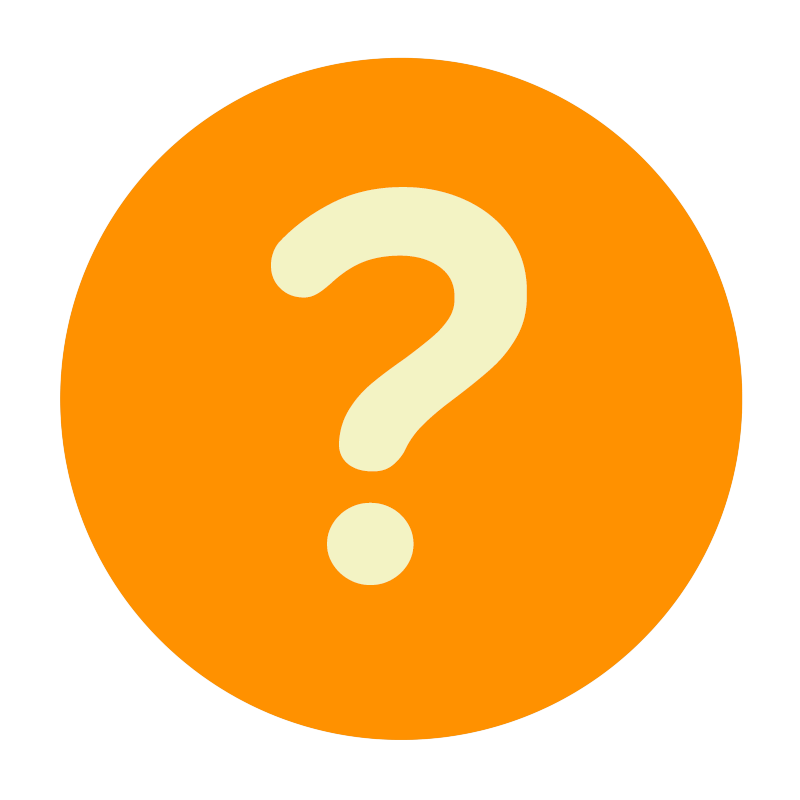
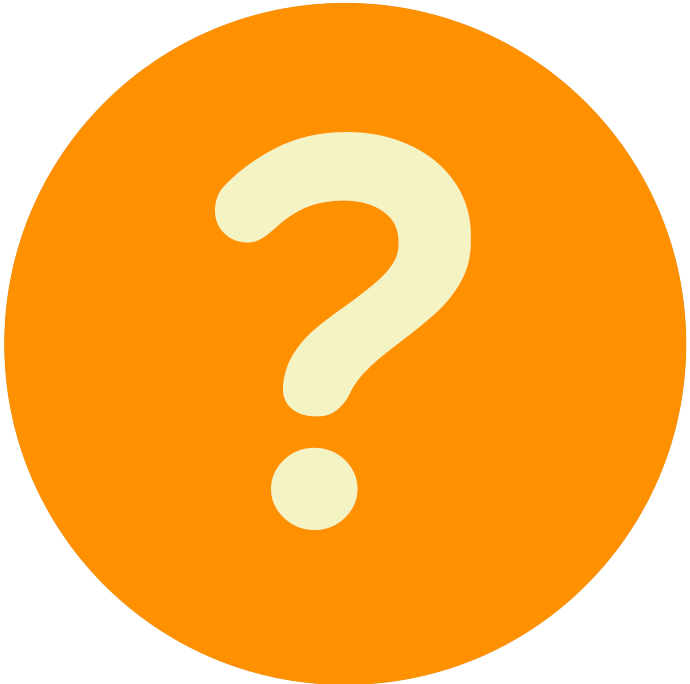
Redimensionado botões e sombra

diff --git a/css/locais.css b/css/locais.css
@@ -25,6 +25,10 @@
 #info_btn{
     left: 5%;
 }
+#info_btn:hover, #como_jogar_btn:hover, #jogar_btn:hover, #voltar_btn:hover{
+    -webkit-filter: drop-shadow(20px 20px 20px #222);
+    filter: drop-shadow(20px 20px 20px #222);
+}
 #como_jogar_btn{
     left: 13%;
     width: 7%;
